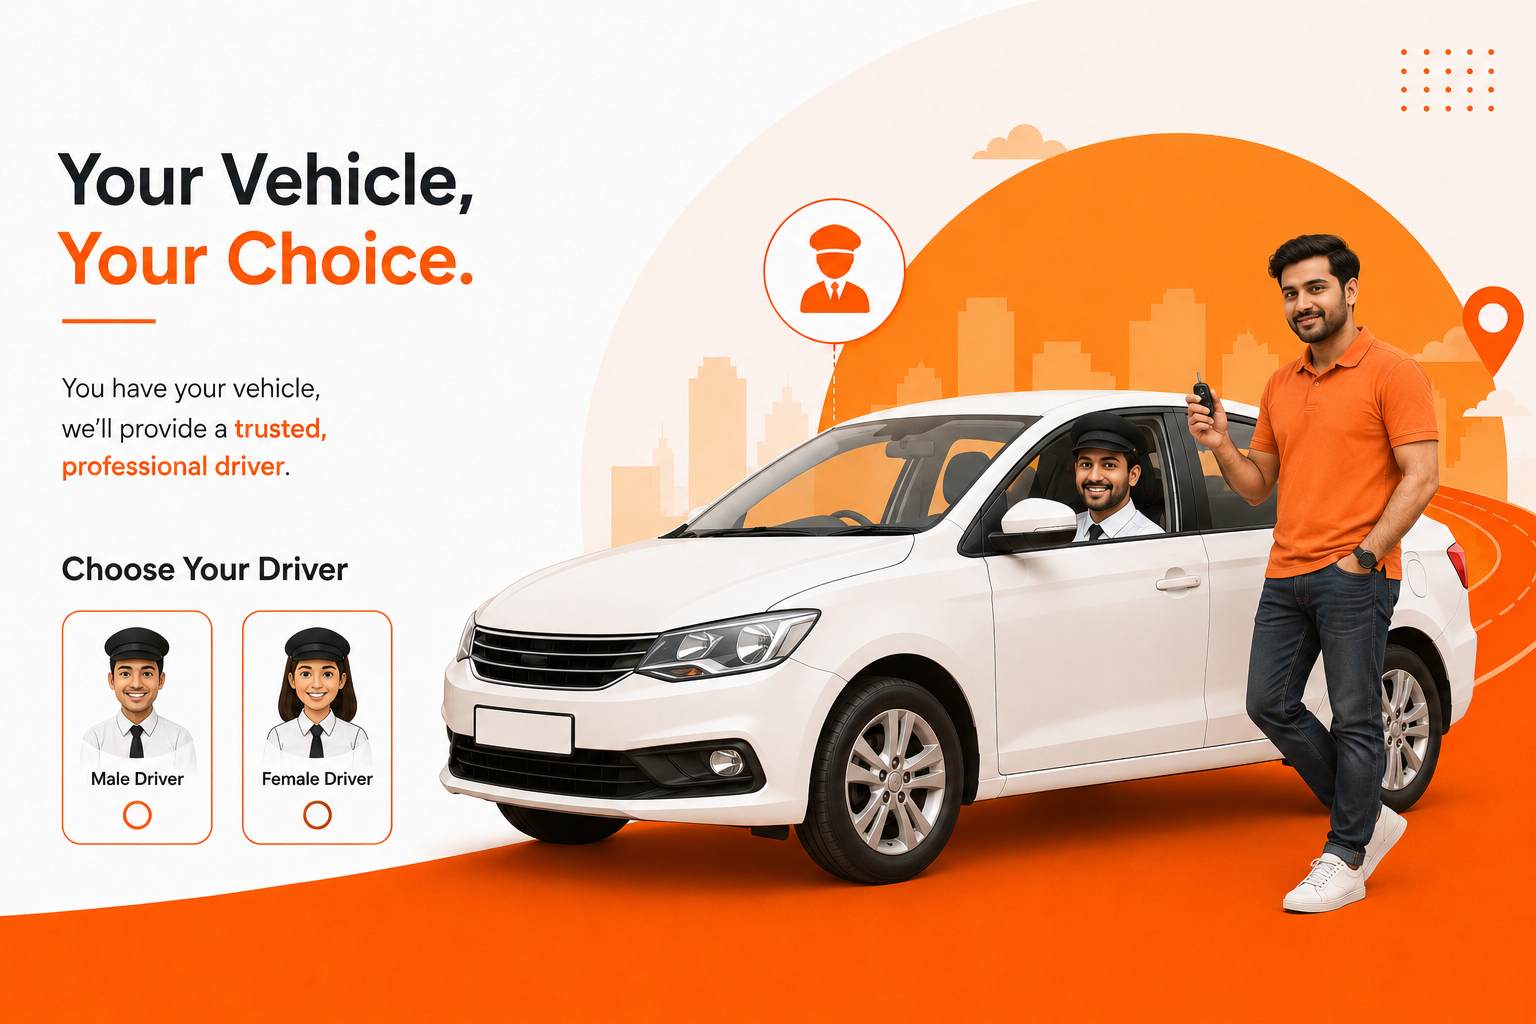
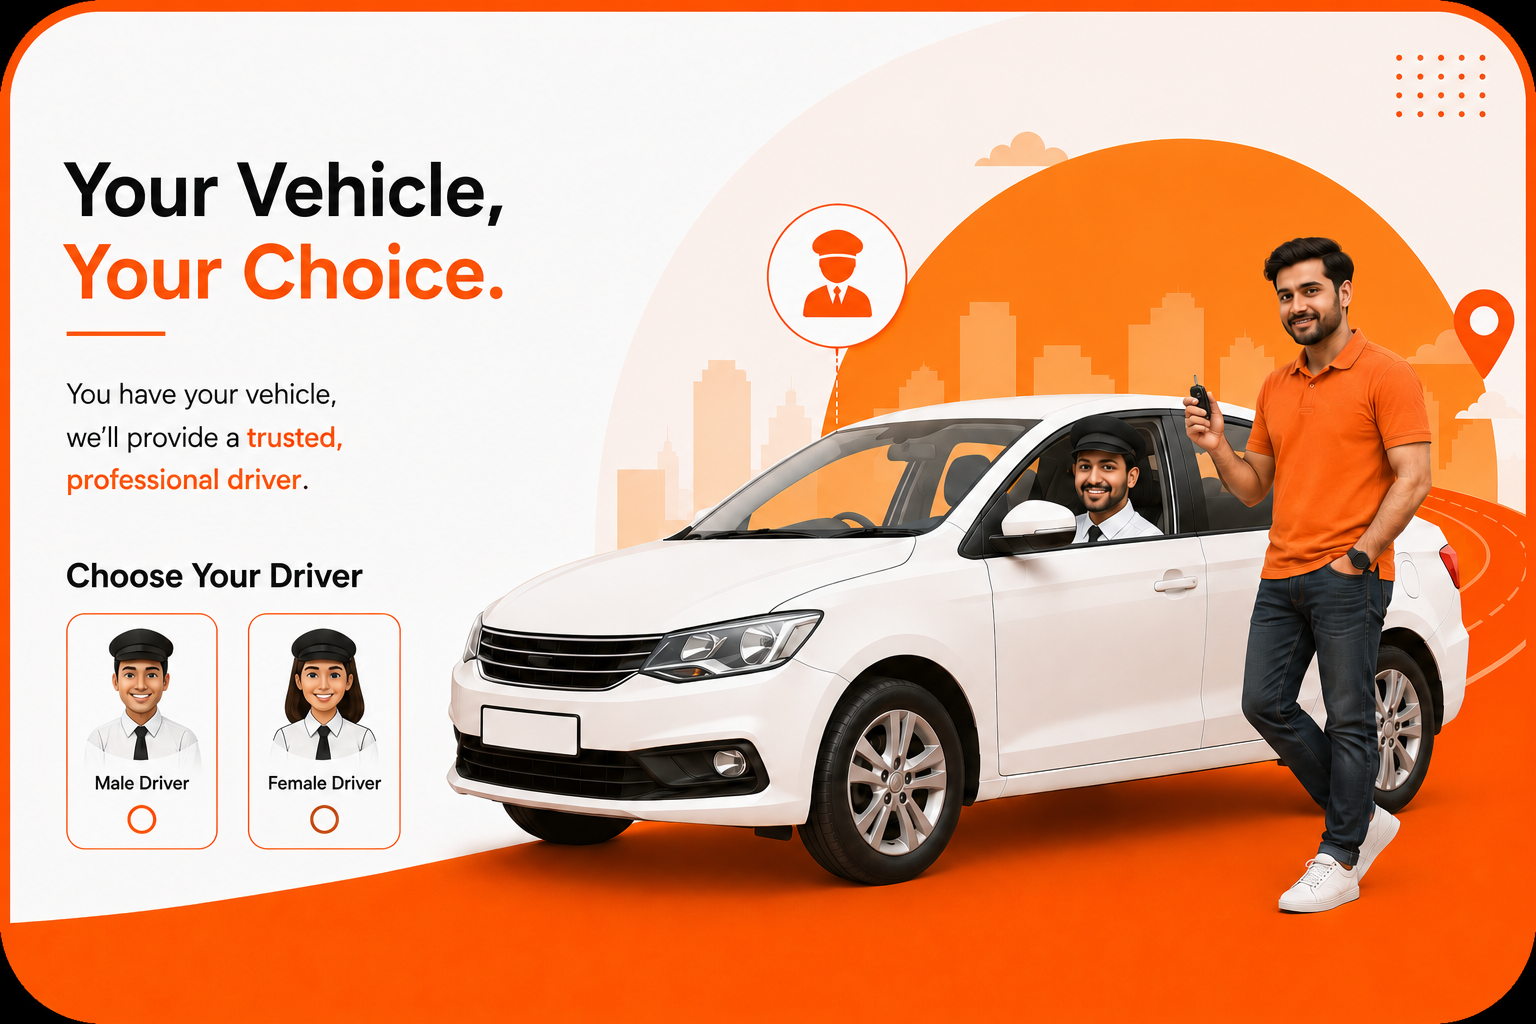
feat: add HireDriverScreen, supporting assets, and localization strings for English and Urdu

diff --git a/app/screens/HireDriverScreen.jsx b/app/screens/HireDriverScreen.jsx
@@ -1292,7 +1292,8 @@ const styles = StyleSheet.create({
     borderRadius: responsiveHeight(0),
     resizeMode: "contain",
     alignSelf: "center",
-    position: "absolute"
+  borderRadius:responsiveHeight(2.5)
+
   },
   promoTitle: {
     fontSize: responsiveFontSize(2.6),